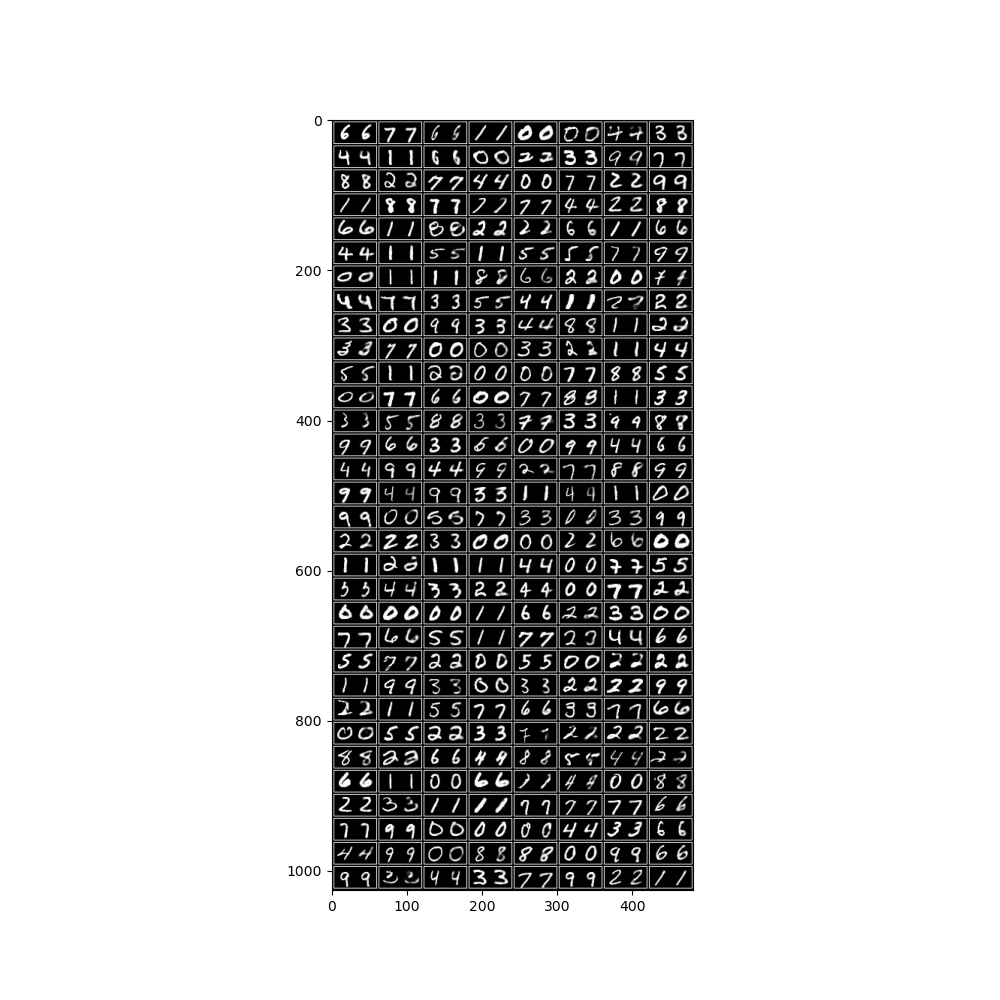
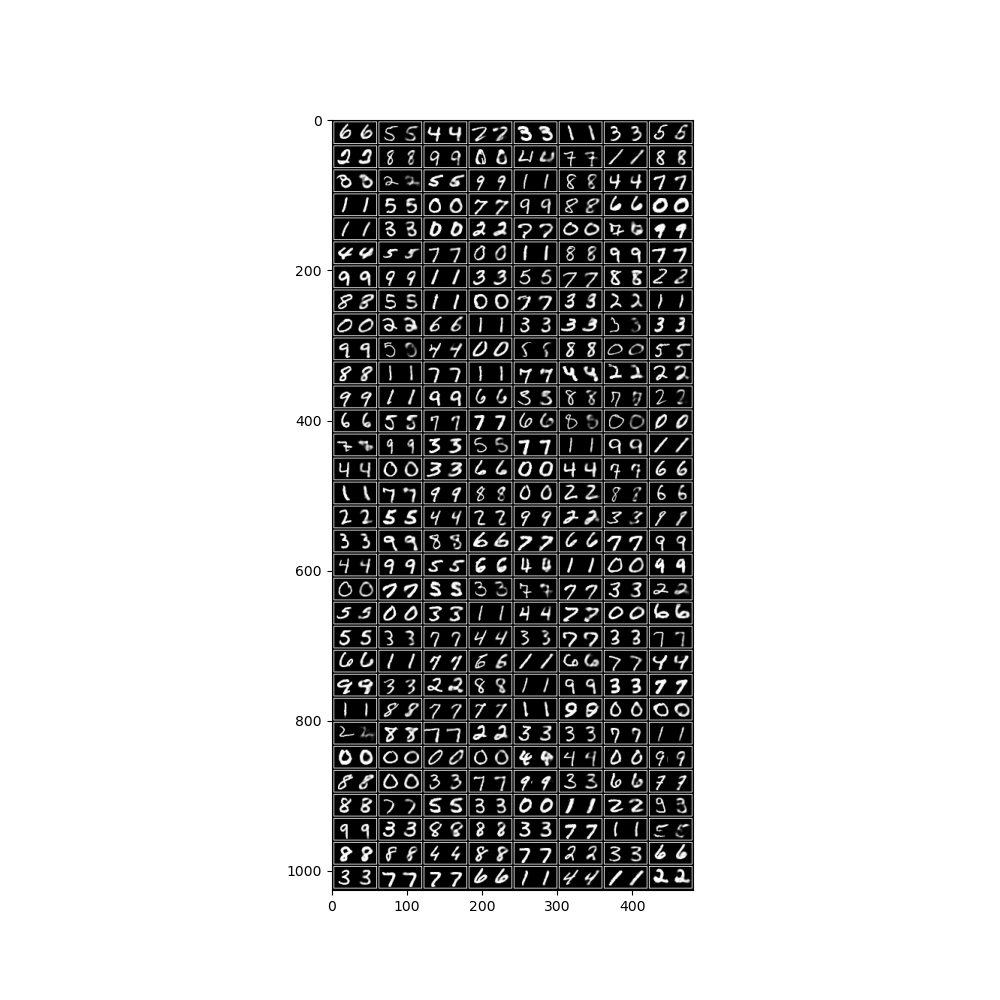
Added code that splits the training set into a training set and validation set. Validation set is now evaluated every epoch. Testset is also now evaluted at the end of training. Also made some various small optimizations, mostly for code clarity

Changed region(s): [[0.341, 0.124, 0.713, 0.899]]

diff --git a/project/main.py b/project/main.py
@@ -24,8 +24,8 @@ transform = transforms.Compose([
     transforms.ToTensor()
 ])
 
-# Downloads the MNIST dataset and stores it in ./data
-trainset = MNIST(
+# Downloads the training portion of the MNIST dataset and stores it in ./data
+initial_trainset = MNIST(
     root='./data',
     train=True,  # specifies the training portion of the MNIST dataset
     download=True,
@@ -41,6 +41,17 @@ testset = MNIST(
 )
 
 
+
+#splitting the training set into a trainset and validation set
+
+train_proportion = 0.9
+
+num_train = int(len(initial_trainset) * train_proportion)
+num_val = len(initial_trainset) - num_train
+
+trainset, valset = torch.utils.data.random_split(initial_trainset, [num_train, num_val]) #randomly splits initial_trainset into the actual trainset and validation set (valset)
+
+
 # Creates a data loader for trainset
 trainloader = DataLoader(
     trainset,
@@ -50,8 +61,15 @@ trainloader = DataLoader(
 )
 
 
-testloader = torch.utils.data.DataLoader(
+testloader = DataLoader(
     testset,
+    batch_size=batch_size,
+    shuffle=True,
+    num_workers=num_workers
+)
+
+valloader = DataLoader(
+    valset, 
     batch_size=batch_size,
     shuffle=True,
     num_workers=num_workers
@@ -87,21 +105,22 @@ autoencoder = Autoencoder() #creates instance of Autoencoder class
 criterion = nn.BCELoss() #BCELoss (Binary Cross Entropy loss) specifies the loss between two binary or near-binary inputs. Such as the white or black of these characters
 optimizer = torch.optim.Adam(autoencoder.parameters()) #optimizer which takes as input all of the parameters of the model. Uses Adam (Adaptive Moment Estimation)
 
-num_epochs = 50
+num_epochs = 25
 
 #use the GPU to train if possible. Else CPU
 device = torch.device("cuda" if torch.cuda.is_available() else "cpu")
 print("Using device: " + ("GPU" if torch.cuda.is_available() else "CPU"))
 autoencoder.to(device)
 
-counter = 1
+
 
 for epoch in range(num_epochs):
 
-    running_loss = 0
-    batch_number = 0
+    train_running_loss = 0
+    val_running_loss = 0
 
-    for data in trainloader:
+    #Use enumerate to tally the total number of batches for avg running loss calculations later on
+    for train_batch_number, data in enumerate(trainloader, start = 1):
         img, _ = data #unpacks the data (which is in the form of a tuple), the first value of which are the images and the second is the label. We don't care about the label, so we use "_"
         img = img.view(img.size(0), -1) #the image is currently in the form a tensor of size (batch_size, 28, 28). We reshape (view) it so that it keeps the first dimension (batch_size) but the rest is squashed to 1 dimension. The -1 tells PyTorch to infer the dimension from the others, which turns out to be 28^2 = 784
 
@@ -111,18 +130,47 @@ for epoch in range(num_epochs):
         output = autoencoder(img) #generate an output using the batch of images. Note that 'output' is more than just a simple tensor. It is an instance of torch.Tensor, and includes an attribute grad_fn, which references a Function object which created the tensor, allowing PyTorch to ultimately trace back the operatations which resulted in the tensor and perform backpropogation.
         loss = criterion(output, img) #calculate a loss between the output and original input. loss itself is an instance of the torch.Tensor class. It stores a tensor of 0 dimension (1 value), representing the loss
 
-        running_loss += loss.item()
-        batch_number += 1
+        train_running_loss += loss.item()
 
         #backward
         optimizer.zero_grad() #zeros out the gradient. To be more specific, each parameter of the model has a .grad attribute. This is zeroed out
         loss.backward() #Using a computational graph which stores all of the operations which occured to result in the loss value, loss then performs backpropogation on the model, setting the .grad attribute for each parameter as it does so
         optimizer.step() #the optimizer then updates each parameter based on its .grad attribute. The process of updating any one parameter is independant from those of the rest, so order doesn't really matter
 
-    print(f"Epoch: {counter} out of {num_epochs} epochs  |  Avg Running Loss: {running_loss/batch_number}")
-    counter += 1
+
+    #calculate validation set running loss
+    for val_batch_number, data in enumerate(valset, start = 1):
+
+        img, _ = data
+        img = img.view(img.size(0), -1)
+        img = img.to(device)
+        output = autoencoder(img)
+        loss = criterion(output, img)
+
+        val_running_loss += loss.item()
+
+
+
+    print(f"Epoch: {epoch} out of {num_epochs} | Avg Train Run Loss: {train_running_loss/train_batch_number} | Avg Val Run Loss: {val_running_loss/val_batch_number}")
+
 
 print("training done!")
+
+test_running_loss = 0
+
+for test_batch_number, data in enumerate(testset, start = 1):
+    img, _  = data
+    img = img.view(img.size(0), -1)
+    img = img.to(device)
+    output = autoencoder(img)
+    loss = criterion(output, img)
+    test_running_loss += loss.item()
+
+print(f"TEST SET AVG LOSS: {test_running_loss/test_batch_number}")
+
+
+
+
 
 #get some test images and run them through the autoencoder
 test_images, _ = next(iter(testloader)) #uses iter and next, which are standard Python functions. Iter creates an interable of testloader, and next returns the first batch
